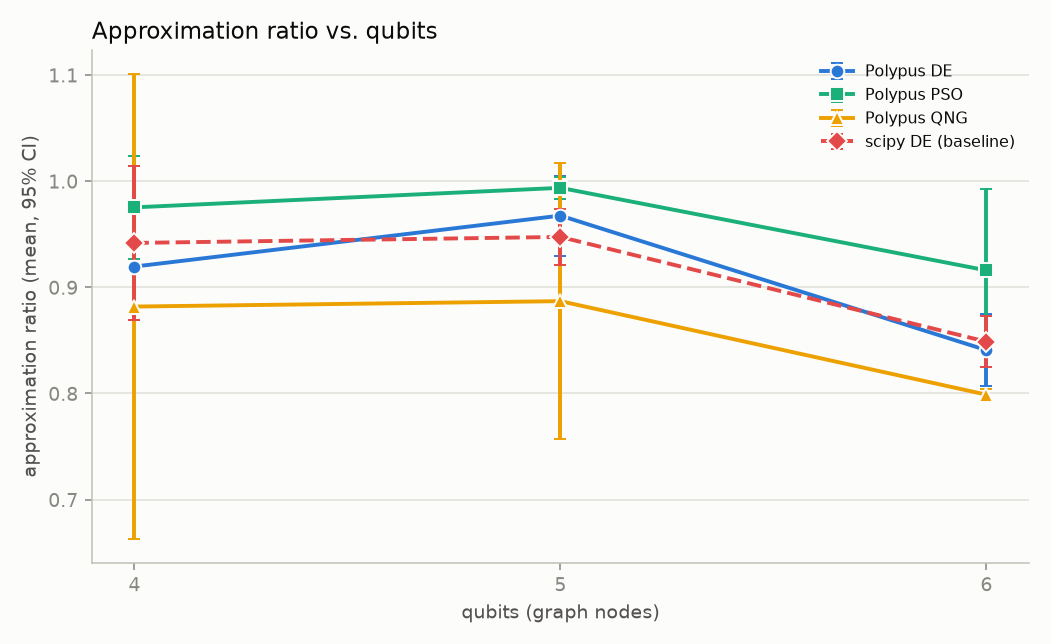
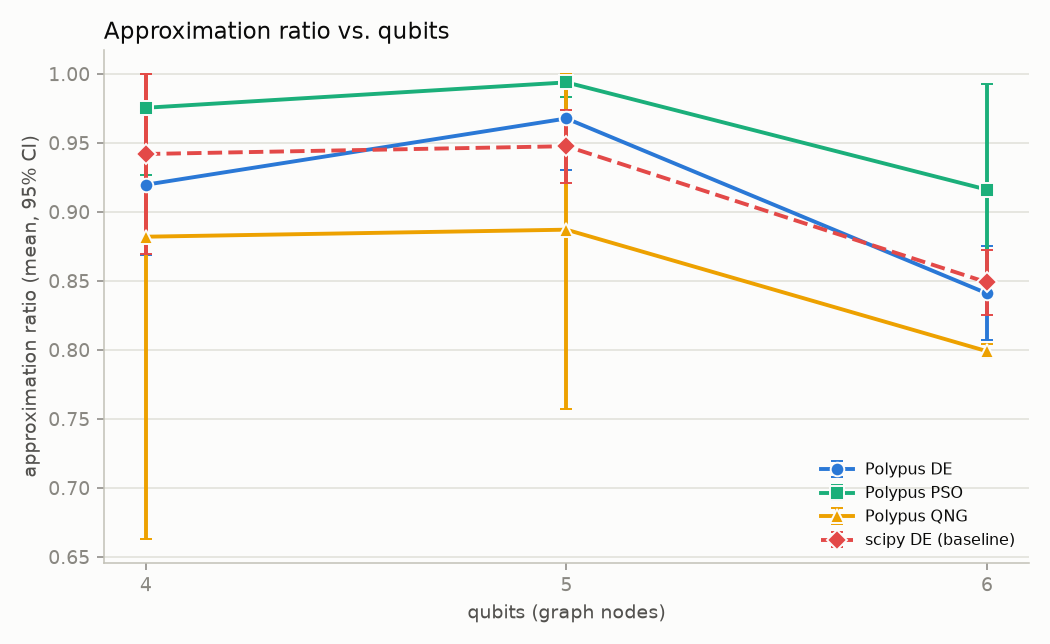
fix(examples): default max-cut sweep to 10 repeats and clip report CIs to physical bounds
Two follow-up corrections to the max-cut experiment:

- Bump the sweep's default --repeats from 5 to 10 for tighter statistics; the
  default sweep is now 160 runs (~40 min). README run count and time estimate
  updated to match. The committed demo stays a reduced 3-repeat sample.
- The report's 95% t-interval was unbounded, so with few repetitions the shown
  CI escaped the metric's physical range: the committed demo had a ratio CI
  upper of 1.0052 (a ratio cannot exceed 1) and a negative-time CI, and the
  polypus_vs_scipy error bars visibly overshot y=1.0 -- which reads as a bug in
  a report meant to be shown to others. Clip the *displayed* interval and its
  (now asymmetric) error bars to each metric's domain (ratio [0,1], time
  [0,inf)) while leaving mean/std as the raw sample values, and add a visible
  note in both the .md and .html that the CI is a t-interval clipped to the
  physical range. Chosen over a silent clip so the report stays honest about
  what it's doing. Regenerated the committed demo with the README's documented
  command so the PR shows the corrected report.

diff --git a/examples/max_cut/report_maxcut.py b/examples/max_cut/report_maxcut.py
@@ -79,7 +79,17 @@ def _method_order(methods):
 # ─────────────────────────────────────────────────────────────────────────────
 
 
-def _stats(values):
+def _stats(values, lo=None, hi=None):
+    """Summary statistics plus a 95% t-interval for the mean.
+
+    ``mean``/``std`` are the raw sample values (never altered). The *displayed*
+    interval (``ci_low``/``ci_high`` and the asymmetric error offsets
+    ``err_low``/``err_high``) is clipped to the metric's physical domain
+    ``[lo, hi]`` — an unclipped t-interval can otherwise report a ratio above 1
+    or a negative time with few repetitions, which reads as a bug in a report
+    meant to be shown to others. Pass ``lo``/``hi`` (either may be ``None`` for
+    an open side); the clip only bounds what is drawn, not the statistics.
+    """
     arr = np.asarray(values, dtype=float)
     n = arr.size
     mean = float(arr.mean())
@@ -94,6 +104,11 @@ def _stats(values):
     else:
         std = 0.0
         half = 0.0
+    ci_low, ci_high = mean - half, mean + half
+    if lo is not None:
+        ci_low = max(lo, ci_low)
+    if hi is not None:
+        ci_high = min(hi, ci_high)
     return {
         "n": int(n),
         "mean": mean,
@@ -101,9 +116,11 @@ def _stats(values):
         "median": float(np.median(arr)),
         "min": float(arr.min()),
         "max": float(arr.max()),
-        "ci_low": mean - half,
-        "ci_high": mean + half,
-        "ci_half": half,
+        "ci_half": half,           # raw half-width (unclipped), for reference
+        "ci_low": ci_low,          # displayed bound, clipped to [lo, hi]
+        "ci_high": ci_high,
+        "err_low": mean - ci_low,  # asymmetric error-bar offsets (>= 0)
+        "err_high": ci_high - mean,
     }
 
 
@@ -128,8 +145,10 @@ def aggregate(rows):
                 "method": method,
                 "display": _style(method)[0],
                 "n_qubits": q,
-                "ratio": _stats(g["ratio"]),
-                "time": _stats(g["time"]),
+                # Clip displayed CIs to each metric's physical domain: ratio is
+                # a fraction in [0, 1]; run time is non-negative.
+                "ratio": _stats(g["ratio"], lo=0.0, hi=1.0),
+                "time": _stats(g["time"], lo=0.0, hi=None),
             })
     return out
 
@@ -186,14 +205,19 @@ def _init_matplotlib():
 
 
 def _series_by_method(agg, field):
-    """method -> (qubits[], mean[], ci_half[]) for the given metric field."""
+    """method -> (qubits[], mean[], err_low[], err_high[]) for the given metric.
+
+    The errors are the asymmetric, domain-clipped CI offsets, so an error bar
+    never crosses the metric's physical bound (e.g. a ratio bar stops at 1.0).
+    """
     series = OrderedDict()
     for method in _method_order({row["method"] for row in agg}):
         pts = sorted((r["n_qubits"], r[field]) for r in agg if r["method"] == method)
         series[method] = (
             [q for q, _ in pts],
             [s["mean"] for _, s in pts],
-            [s["ci_half"] for _, s in pts],
+            [s["err_low"] for _, s in pts],
+            [s["err_high"] for _, s in pts],
         )
     return series
 
@@ -201,9 +225,9 @@ def _series_by_method(agg, field):
 def _fig_metric_vs_qubits(plt, agg, field, ylabel, title, path, logy=False):
     fig, ax = plt.subplots(figsize=(7.5, 4.6), dpi=140)
     series = _series_by_method(agg, field)
-    for method, (xs, ys, errs) in series.items():
+    for method, (xs, ys, err_lo, err_hi) in series.items():
         name, color, ls, marker, _ = _style(method)
-        ax.errorbar(xs, ys, yerr=errs, label=name, color=color, linestyle=ls,
+        ax.errorbar(xs, ys, yerr=[err_lo, err_hi], label=name, color=color, linestyle=ls,
                     marker=marker, markersize=7, linewidth=2, capsize=3,
                     markeredgecolor=SURFACE, markeredgewidth=1.0, zorder=3)
     # Identity comes from the legend: the DE and scipy lines run nearly on top of
@@ -260,11 +284,12 @@ def _fig_polypus_vs_scipy(plt, agg, path):
     for i, method in enumerate(methods):
         name, color, _, _, hatch = _style(method)
         means = [ratio_by.get((method, q), {}).get("mean", np.nan) for q in qubits]
-        errs = [ratio_by.get((method, q), {}).get("ci_half", 0.0) for q in qubits]
+        err_lo = [ratio_by.get((method, q), {}).get("err_low", 0.0) for q in qubits]
+        err_hi = [ratio_by.get((method, q), {}).get("err_high", 0.0) for q in qubits]
         offs = x + (i - (n_m - 1) / 2) * width
         ax.bar(offs, means, width=width * 0.9, label=name, color=color,
                edgecolor=SURFACE, linewidth=1.2, hatch=hatch or None,
-               yerr=errs, ecolor=MUTED, capsize=2, zorder=3)
+               yerr=[err_lo, err_hi], ecolor=MUTED, capsize=2, zorder=3)
     ax.set_xticks(x)
     ax.set_xticklabels([str(q) for q in qubits])
     ax.set_xlabel("qubits (graph nodes)")
@@ -395,6 +420,11 @@ def _narrative_md(prov, headline):
         "(expected cut ÷ optimal cut, so 1.0 is perfect); the 95% CI is a t-interval over "
         "the `n` repetitions. `time` columns are wall-clock seconds per run. Higher ratio "
         "is better; lower time is better.",
+        "",
+        "> The CI shown is a 95% t-interval **clipped to each metric's physical range** "
+        "(ratio to `[0, 1]`, time to `[0, ∞)`). With few repetitions the raw t-interval can "
+        "extend past those bounds; the mean and standard deviation are the unmodified sample "
+        "values — only the displayed interval (and its error bars) is clamped.",
     ]
     if headline:
         h = headline
@@ -537,6 +567,10 @@ python examples/max_cut/report_maxcut.py</pre>
 <p>One row per (method, qubit count). <code>ratio mean</code> is expected cut ÷ optimal cut
 (1.0 is perfect); the 95% CI is a t-interval over the <code>n</code> repetitions. Higher ratio is
 better; lower time is better.</p>
+<p class="prov">The CI shown is a 95% t-interval <b>clipped to each metric's physical range</b>
+(ratio to [0,&nbsp;1], time to [0,&nbsp;∞)). With few repetitions the raw t-interval can extend
+past those bounds; the mean and standard deviation are the unmodified sample values — only the
+displayed interval (and its error bars) is clamped.</p>
 <div class="table-wrap"><table><thead><tr>{thead}</tr></thead><tbody>{tbody}</tbody></table></div>
 <h2>Provenance</h2>
 <p class="prov">runs: {prov['total_runs']} · qubits: {prov['qubits']} · repeats: {prov['repeats']}

diff --git a/examples/max_cut/sweep_maxcut.py b/examples/max_cut/sweep_maxcut.py
@@ -60,7 +60,7 @@ def _build_parser() -> argparse.ArgumentParser:
     p.add_argument("--methods", nargs="+", default=list(mc.DEFAULT_SWEEP_METHODS),
                    choices=mc.ALL_METHODS,
                    help="Methods to sweep. Default: the 3 local Polypus optimizers + scipy baseline.")
-    p.add_argument("--repeats", type=int, default=5, help="Repetitions per (qubits, method).")
+    p.add_argument("--repeats", type=int, default=10, help="Repetitions per (qubits, method).")
     p.add_argument("--seed", type=int, default=42,
                    help="Base seed; repetition r uses seed = base_seed + r.")
     p.add_argument("--shots", type=int, default=10_000, help="Shots per circuit evaluation.")

diff --git a/examples/max_cut/demo/maxcut_report.md b/examples/max_cut/demo/maxcut_report.md
@@ -17,33 +17,35 @@ python examples/max_cut/report_maxcut.py
 
 One row per (method, qubit count). `ratio mean` is the primary quality metric (expected cut ÷ optimal cut, so 1.0 is perfect); the 95% CI is a t-interval over the `n` repetitions. `time` columns are wall-clock seconds per run. Higher ratio is better; lower time is better.
 
+> The CI shown is a 95% t-interval **clipped to each metric's physical range** (ratio to `[0, 1]`, time to `[0, ∞)`). With few repetitions the raw t-interval can extend past those bounds; the mean and standard deviation are the unmodified sample values — only the displayed interval (and its error bars) is clamped.
+
 ## Headline
 
-At 6 qubits, the best Polypus optimizer (**Polypus PSO**) reached a mean approximation ratio of **0.9160**, 0.0672 above the scipy baseline (0.8488), with a mean run time of 5.25s vs scipy's 16.66s (≈3.17× time ratio).
+At 6 qubits, the best Polypus optimizer (**Polypus PSO**) reached a mean approximation ratio of **0.9160**, 0.0672 above the scipy baseline (0.8488), with a mean run time of 5.21s vs scipy's 17.03s (≈3.27× time ratio).
 
 ## Provenance
 
 - runs: **36** | qubits: [4, 5, 6] | methods: ['Polypus DE', 'Polypus PSO', 'Polypus QNG', 'scipy DE (baseline)']
 - repeats: 3 | base seed(s): [42] | shots: [4000]
-- git commit(s): ['96d4a3b'] | polypus: ['0.6.0']
-- timestamps: 2026-07-14T09:51:44Z … 2026-07-14T09:54:15Z
+- git commit(s): ['451e0fd'] | polypus: ['0.6.0']
+- timestamps: 2026-07-14T12:23:08Z … 2026-07-14T12:25:38Z
 
 ## Metrics
 
 | method | qubits | n | ratio mean | ratio std | ratio median | ratio min | ratio max | ratio 95% CI | time mean [s] | time std [s] | time 95% CI [s] |
 | --- | --- | --- | --- | --- | --- | --- | --- | --- | --- | --- | --- |
-| Polypus DE | 4 | 3 | 0.9195 | 0.0204 | 0.9130 | 0.9032 | 0.9424 | [0.8688, 0.9703] | 0.962 | 0.005 | [0.949, 0.976] |
-| Polypus DE | 5 | 3 | 0.9675 | 0.0152 | 0.9588 | 0.9588 | 0.9850 | [0.9299, 1.0052] | 1.706 | 0.009 | [1.682, 1.729] |
-| Polypus DE | 6 | 3 | 0.8408 | 0.0137 | 0.8424 | 0.8264 | 0.8536 | [0.8067, 0.8748] | 5.216 | 0.040 | [5.116, 5.316] |
-| Polypus PSO | 4 | 3 | 0.9753 | 0.0196 | 0.9708 | 0.9583 | 0.9968 | [0.9265, 1.0241] | 0.960 | 0.022 | [0.904, 1.015] |
-| Polypus PSO | 5 | 3 | 0.9937 | 0.0042 | 0.9941 | 0.9893 | 0.9977 | [0.9831, 1.0042] | 1.739 | 0.033 | [1.656, 1.821] |
-| Polypus PSO | 6 | 3 | 0.9160 | 0.0309 | 0.9248 | 0.8816 | 0.9415 | [0.8392, 0.9927] | 5.251 | 0.058 | [5.106, 5.395] |
-| Polypus QNG | 4 | 3 | 0.8819 | 0.0883 | 0.9324 | 0.7799 | 0.9333 | [0.6625, 1.1012] | 1.019 | 0.108 | [0.751, 1.287] |
-| Polypus QNG | 5 | 3 | 0.8869 | 0.0523 | 0.8869 | 0.8347 | 0.9393 | [0.7570, 1.0168] | 1.839 | 0.161 | [1.439, 2.239] |
-| Polypus QNG | 6 | 3 | 0.7989 | 0.0021 | 0.7977 | 0.7976 | 0.8013 | [0.7937, 0.8041] | 5.511 | 0.156 | [5.122, 5.900] |
-| scipy DE (baseline) | 4 | 3 | 0.9418 | 0.0292 | 0.9523 | 0.9087 | 0.9643 | [0.8692, 1.0144] | 2.630 | 1.433 | [-0.929, 6.189] |
-| scipy DE (baseline) | 5 | 3 | 0.9474 | 0.0106 | 0.9428 | 0.9400 | 0.9596 | [0.9211, 0.9738] | 3.132 | 0.244 | [2.525, 3.738] |
-| scipy DE (baseline) | 6 | 3 | 0.8488 | 0.0096 | 0.8436 | 0.8429 | 0.8598 | [0.8250, 0.8725] | 16.658 | 2.972 | [9.277, 24.040] |
+| Polypus DE | 4 | 3 | 0.9195 | 0.0204 | 0.9130 | 0.9032 | 0.9424 | [0.8688, 0.9703] | 0.987 | 0.017 | [0.945, 1.030] |
+| Polypus DE | 5 | 3 | 0.9675 | 0.0152 | 0.9588 | 0.9588 | 0.9850 | [0.9299, 1.0000] | 1.790 | 0.018 | [1.744, 1.836] |
+| Polypus DE | 6 | 3 | 0.8408 | 0.0137 | 0.8424 | 0.8264 | 0.8536 | [0.8067, 0.8748] | 5.209 | 0.015 | [5.172, 5.246] |
+| Polypus PSO | 4 | 3 | 0.9753 | 0.0196 | 0.9708 | 0.9583 | 0.9968 | [0.9265, 1.0000] | 0.938 | 0.012 | [0.909, 0.966] |
+| Polypus PSO | 5 | 3 | 0.9937 | 0.0042 | 0.9941 | 0.9893 | 0.9977 | [0.9831, 1.0000] | 1.756 | 0.016 | [1.716, 1.796] |
+| Polypus PSO | 6 | 3 | 0.9160 | 0.0309 | 0.9248 | 0.8816 | 0.9415 | [0.8392, 0.9927] | 5.209 | 0.027 | [5.143, 5.275] |
+| Polypus QNG | 4 | 3 | 0.8819 | 0.0883 | 0.9324 | 0.7799 | 0.9333 | [0.6625, 1.0000] | 1.111 | 0.085 | [0.900, 1.323] |
+| Polypus QNG | 5 | 3 | 0.8869 | 0.0523 | 0.8869 | 0.8347 | 0.9393 | [0.7570, 1.0000] | 1.758 | 0.023 | [1.699, 1.816] |
+| Polypus QNG | 6 | 3 | 0.7989 | 0.0021 | 0.7977 | 0.7976 | 0.8013 | [0.7937, 0.8041] | 5.724 | 0.228 | [5.158, 6.290] |
+| scipy DE (baseline) | 4 | 3 | 0.9418 | 0.0292 | 0.9523 | 0.9087 | 0.9643 | [0.8692, 1.0000] | 1.811 | 0.015 | [1.775, 1.848] |
+| scipy DE (baseline) | 5 | 3 | 0.9474 | 0.0106 | 0.9428 | 0.9400 | 0.9596 | [0.9211, 0.9738] | 2.986 | 0.011 | [2.959, 3.013] |
+| scipy DE (baseline) | 6 | 3 | 0.8488 | 0.0096 | 0.8436 | 0.8429 | 0.8598 | [0.8250, 0.8725] | 17.026 | 4.607 | [5.581, 28.470] |
 
 ## Figures
 

diff --git a/examples/max_cut/README.md b/examples/max_cut/README.md
@@ -31,7 +31,7 @@ Everything below assumes the extension module is built and importable
 # 1. Preview the plan (run count + rough time estimate), run nothing:
 python examples/max_cut/sweep_maxcut.py --dry-run
 
-# 2. Run the default sweep (qubits 4–7, 4 methods, 5 repeats = 80 runs):
+# 2. Run the default sweep (qubits 4–7, 4 methods, 10 repeats = 160 runs):
 python examples/max_cut/sweep_maxcut.py --seed 42
 
 # 3. Generate the report from whatever the CSV has accumulated:
@@ -44,7 +44,16 @@ Outputs land under `examples/max_cut/output/` (git-ignored):
 
 A small **committed demo** lives in [`demo/`](demo/) so the deliverable is
 visible in the repo/PR without running anything — see
-[`demo/maxcut_report.md`](demo/maxcut_report.md).
+[`demo/maxcut_report.md`](demo/maxcut_report.md). It is a deliberately reduced,
+reproducible sample; regenerate it with:
+
+```bash
+python examples/max_cut/sweep_maxcut.py --qubits 4 5 6 --repeats 3 --shots 4000 \
+    --seed 42 --fresh --csv examples/max_cut/demo/maxcut_results.csv
+python examples/max_cut/report_maxcut.py \
+    --csv examples/max_cut/demo/maxcut_results.csv --out-dir examples/max_cut/demo
+rm -rf examples/max_cut/demo/logs examples/max_cut/demo/maxcut_manifest_*.json
+```
 
 ### Regenerating only the report
 
@@ -72,8 +81,8 @@ variance you see comes purely from the optimizer seed.
 
 ## Estimated time
 
-`--dry-run` prints a rough estimate. As a guide, the default 80-run sweep
-(qubits 4–7, 5 repeats, 10 000 shots) is on the order of ~20 minutes on a
+`--dry-run` prints a rough estimate. As a guide, the default 160-run sweep
+(qubits 4–7, 10 repeats, 10 000 shots) is on the order of ~40 minutes on a
 laptop; it grows steeply with qubit count (statevector cost) and linearly with
 shots. Shrink it while iterating:
 